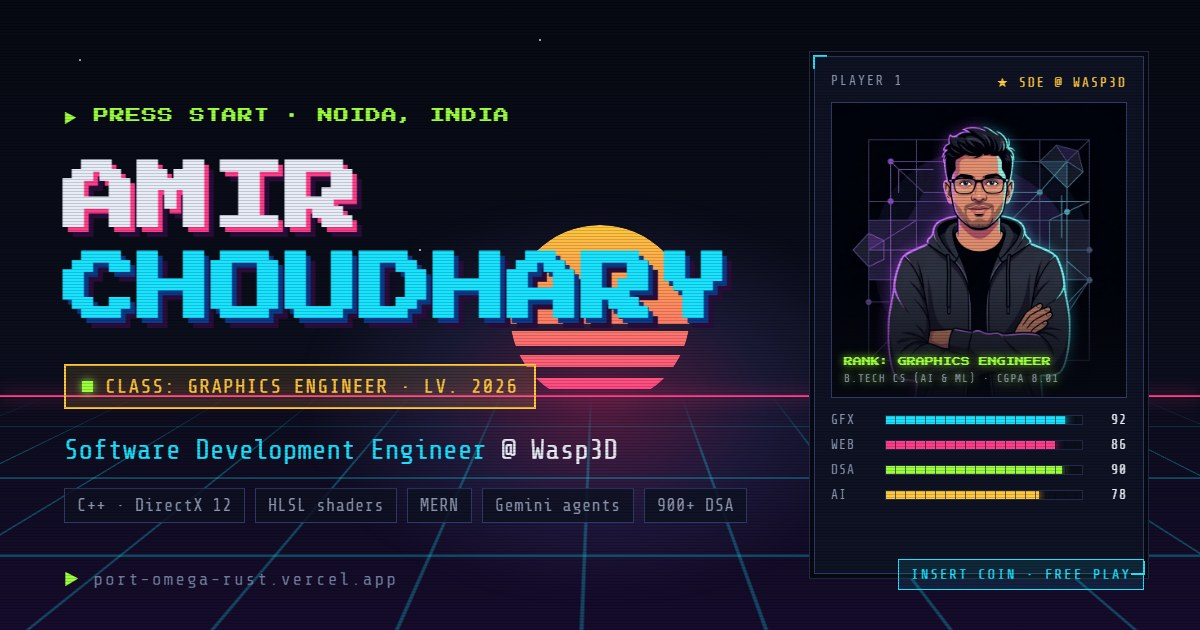
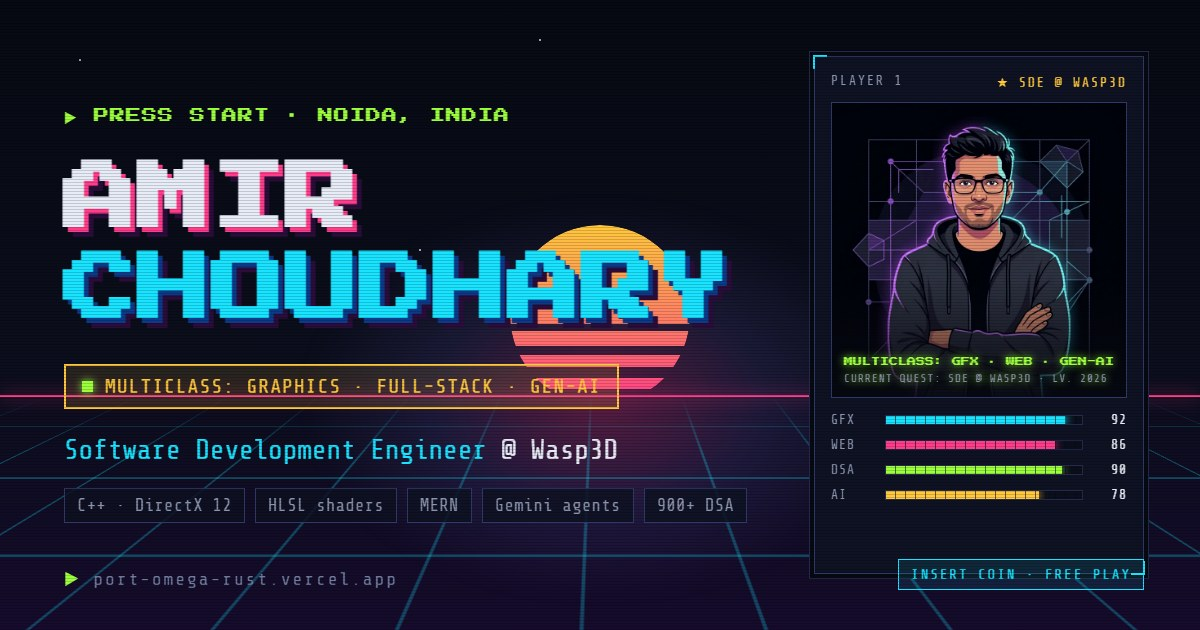
Class tag: multiclass (graphics · full-stack · gen-AI), not just graphics
Graphics is the current quest at Wasp3D, not the whole character sheet. The
hero tag, player-card rank and the OG share card now read
"MULTICLASS: GRAPHICS · FULL-STACK · GEN-AI", with SDE @ Wasp3D shown as the
current quest.

Changed region(s): [[0.0617, 0.573, 0.5242, 0.6635], [0.7092, 0.5429, 0.925, 0.6032]]

diff --git a/index.html b/index.html
@@ -409,7 +409,7 @@ form .bad{border-color:var(--mag);box-shadow:0 0 0 3px var(--mag-dim)}
     <div>
       <div class="press" aria-hidden="true">▶ PRESS START · NOIDA, INDIA</div>
       <h1 class="hero-name">Amir <br><span class="alt">Choudhary</span></h1>
-      <div class="class"><i></i> Class: Graphics Engineer · Lv. 2026</div>
+      <div class="class"><i></i> Multiclass: Graphics · Full-stack · Gen-AI</div>
       <p class="typed" id="typed">Software Development Engineer @ Wasp3D</p>
       <p class="lede">I build things that have to be fast: real-time rendering pipelines in C++ / DirectX 12 at Wasp3D, and scalable MERN applications with clean APIs, secure auth and AI integrations.</p>
       <div class="cta">
@@ -426,10 +426,10 @@ form .bad{border-color:var(--mag);box-shadow:0 0 0 3px var(--mag-dim)}
     </div>
 
     <aside class="panel pcard" aria-label="Player card">
-      <div class="pcard__top"><span>Player 1</span><b>★ SDE @ Wasp3D</b></div>
+      <div class="pcard__top"><span>Player 1 · Lv. 2026</span><b>★ SDE @ Wasp3D</b></div>
       <div class="avatar">
         <img src="img/profile.webp" alt="Illustrated portrait of Amir Choudhary" width="720" height="720">
-        <div class="rank">RANK: GRAPHICS ENGINEER<small>B.Tech CS (AI &amp; ML) · CGPA 8.01</small></div>
+        <div class="rank">MULTICLASS: GFX · WEB · GEN-AI<small>Current quest: SDE @ Wasp3D · CGPA 8.01</small></div>
       </div>
       <div class="bars">
         <div class="bar"><b>GFX</b><i style="--w:92%;--c:var(--cyan)"></i><em>92</em></div>

diff --git a/tools/og-card.html b/tools/og-card.html
@@ -97,7 +97,7 @@
   <div class="left">
     <div class="press">▶ PRESS START · NOIDA, INDIA</div>
     <h1><span>AMIR</span><span class="alt">CHOUDHARY</span></h1>
-    <div class="class"><i></i>CLASS: GRAPHICS ENGINEER · LV. 2026</div>
+    <div class="class"><i></i>MULTICLASS: GRAPHICS · FULL-STACK · GEN-AI</div>
     <div class="role">Software Development Engineer <b>@ Wasp3D</b></div>
     <div class="chips">
       <span class="chip">C++ · DirectX 12</span>
@@ -110,7 +110,7 @@
 
   <div class="pcard">
     <div class="ptop"><span>PLAYER 1</span><b>★ SDE @ WASP3D</b></div>
-    <div class="avatar"><img src="../img/profile.webp" alt=""><div class="rank">RANK: GRAPHICS ENGINEER<small>B.TECH CS (AI &amp; ML) · CGPA 8.01</small></div></div>
+    <div class="avatar"><img src="../img/profile.webp" alt=""><div class="rank">MULTICLASS: GFX · WEB · GEN-AI<small>CURRENT QUEST: SDE @ WASP3D · LV. 2026</small></div></div>
     <div class="bars">
       <div class="bar"><b>GFX</b><i style="--w:92%;--c:var(--cyan)"></i><em>92</em></div>
       <div class="bar"><b>WEB</b><i style="--w:86%;--c:var(--mag)"></i><em>86</em></div>
